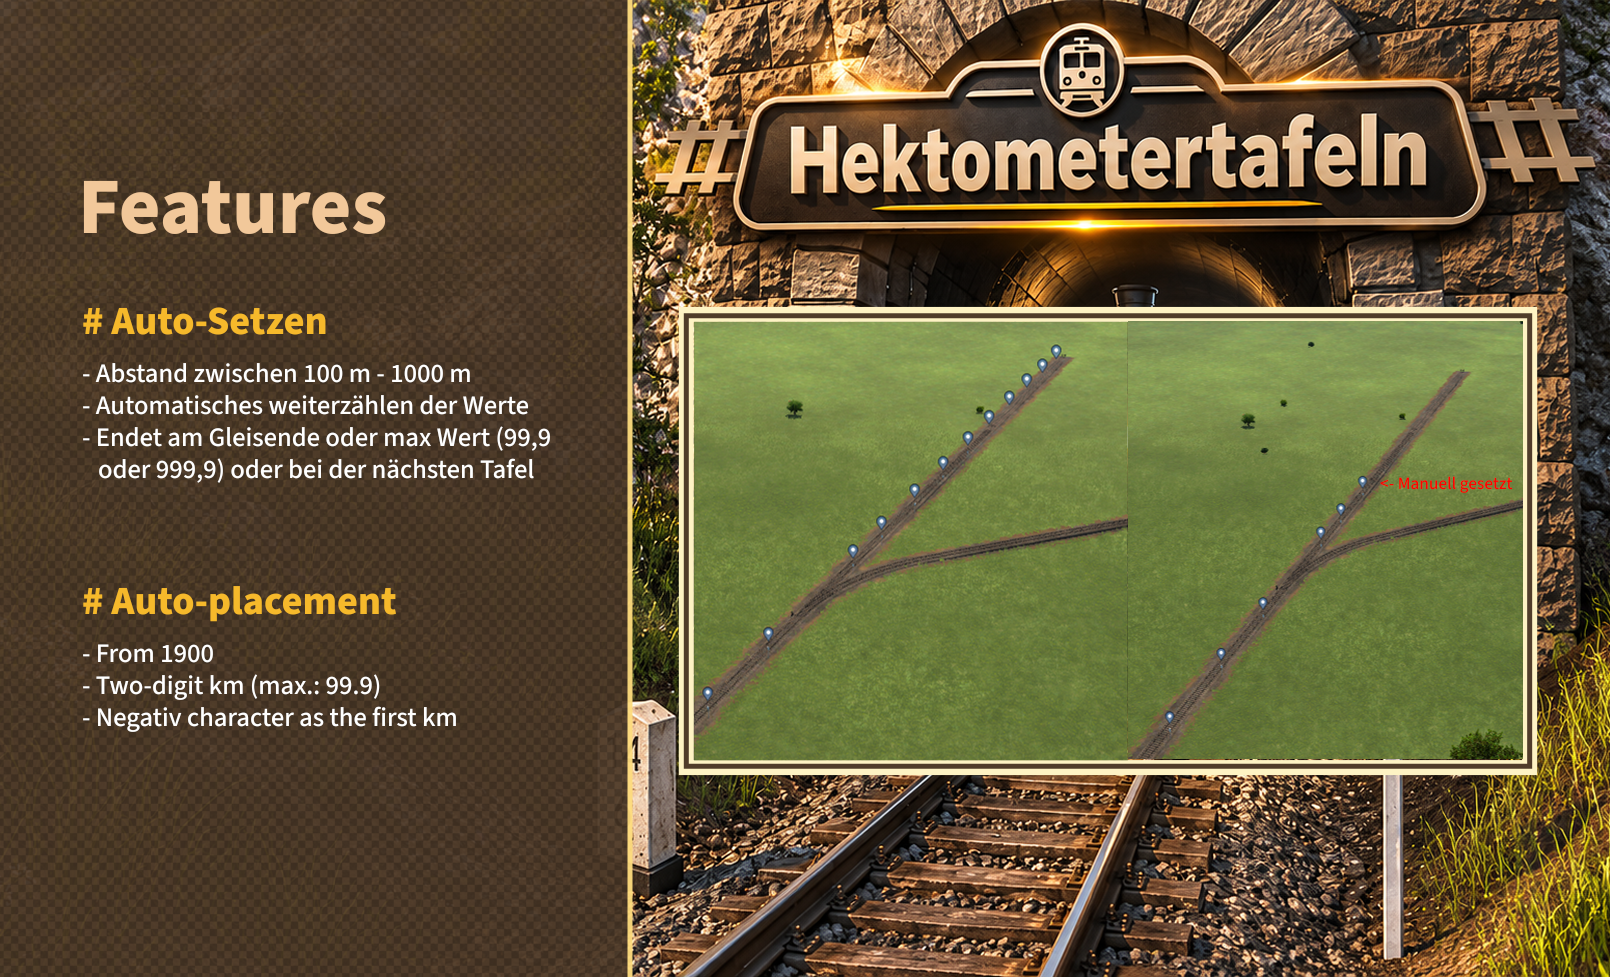
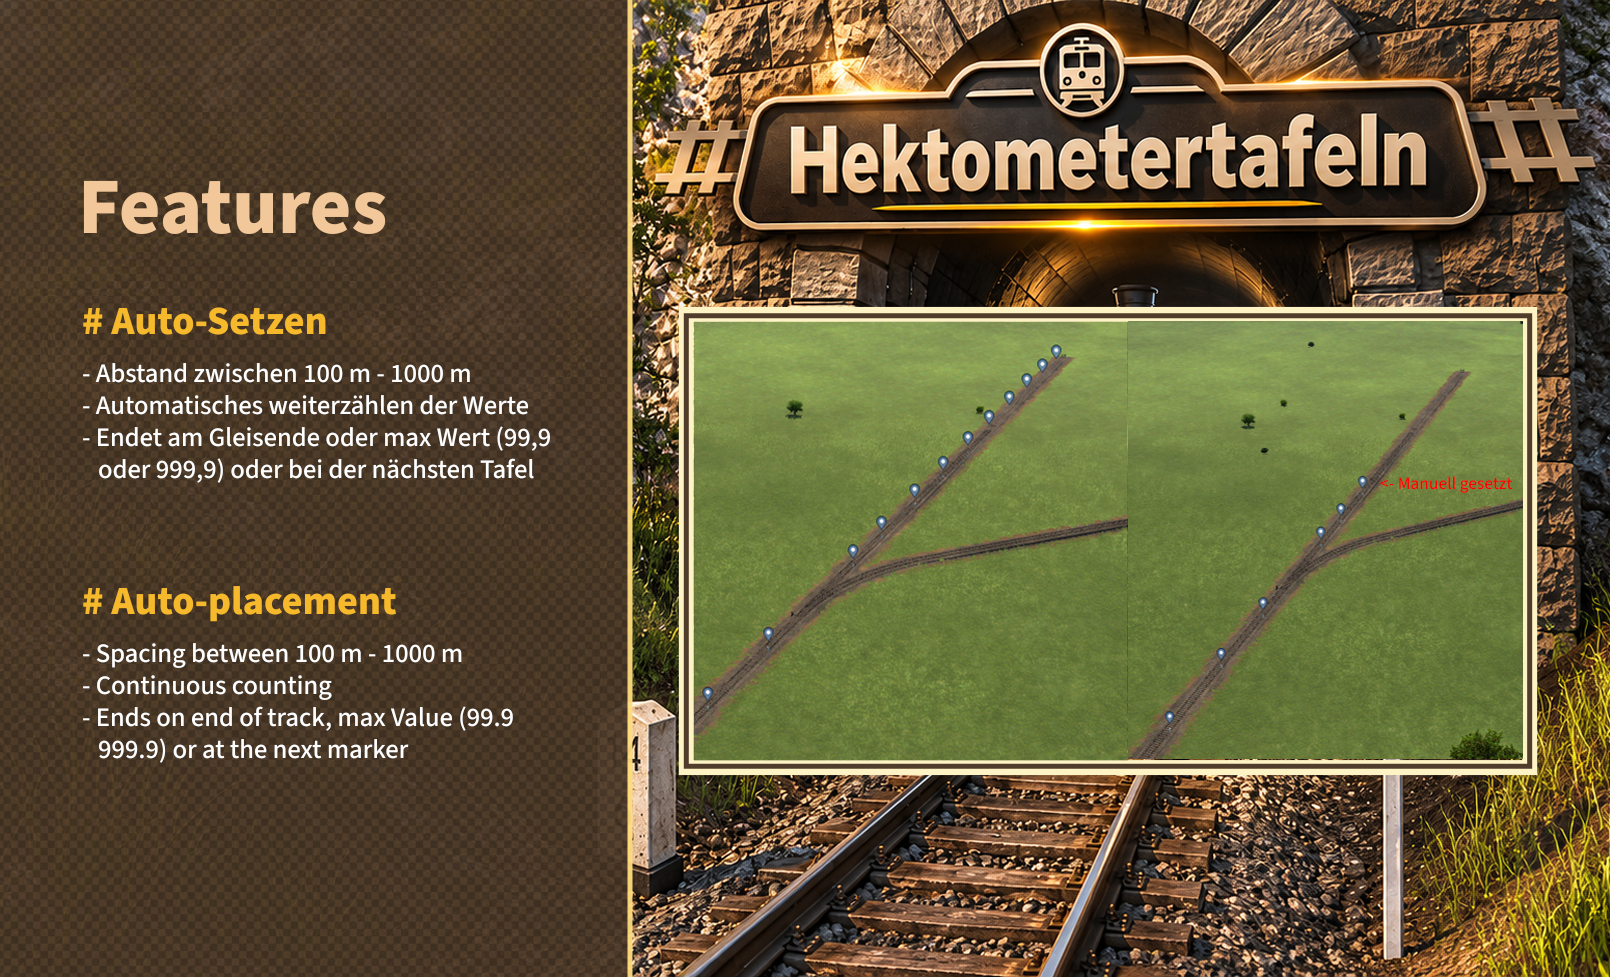
Minor updates

Changed region(s): [[0.0621, 0.6448, 0.3106, 0.7984]]

diff --git a/README.md b/README.md
@@ -32,6 +32,10 @@ Kilometer- und Hektometertafeln für Bahngleise in Transport Fever 3: als Stein 
 - **Meter-genaue Angaben**
   Bei den Tafeln lässt sich zusätzlich eine zweistellige Meteranzeige unten rechts einblenden.
 
+### Hinweis zur KI Nutzung
+Bei einzelnen kleineren Teilbereichen der Entwicklung (z. B. Code-Hilfe oder Textformulierung) kam unterstützend KI (Microsoft Copilot) zum Einsatz. Das Titelbild (basierend auf einem eigenen Screenshot) sowie das Logo wurden mithilfe von ChatGPT erstellt.
+
+
 ### Fehler melden
 
 Bugs oder Features können auf GitHub oder Mod.io gemeldet werden.
@@ -62,6 +66,9 @@ Kilometre and hectometre markers for railway tracks in Transport Fever 3: as a s
   A minus can be chosen as the first digit, for example for lines with negative kilometrage. Auto placement keeps counting with it, too.
 - **Metre-exact values**
   On the boards a two-digit metre display can additionally be shown at the bottom right.
+
+### Note on AI Usage
+AI (Microsoft Copilot) was used to provide support for certain minor aspects of the development process (e.g., coding assistance or drafting text). The cover image (based on a screenshot I captured myself) and the logo were created using ChatGPT.
 
 ### Reporting bugs
 
